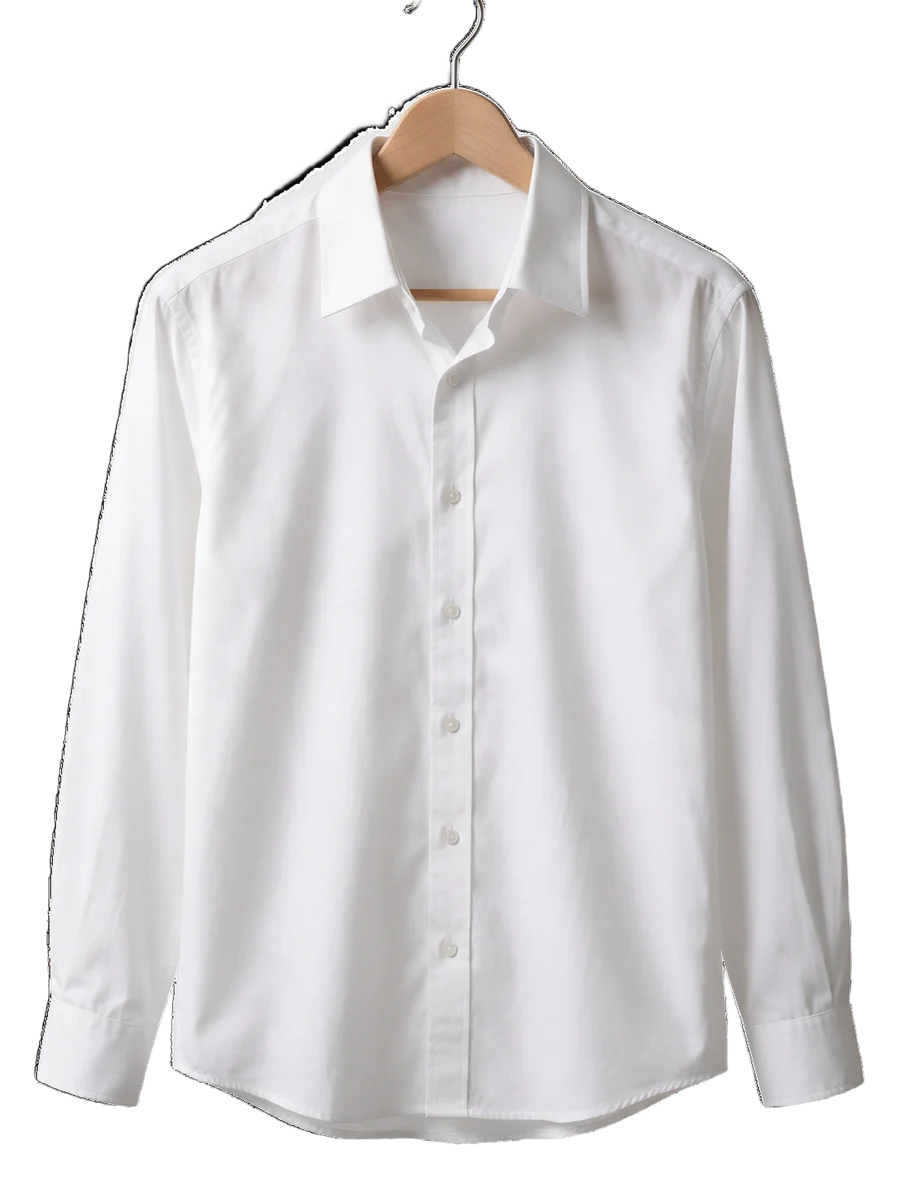
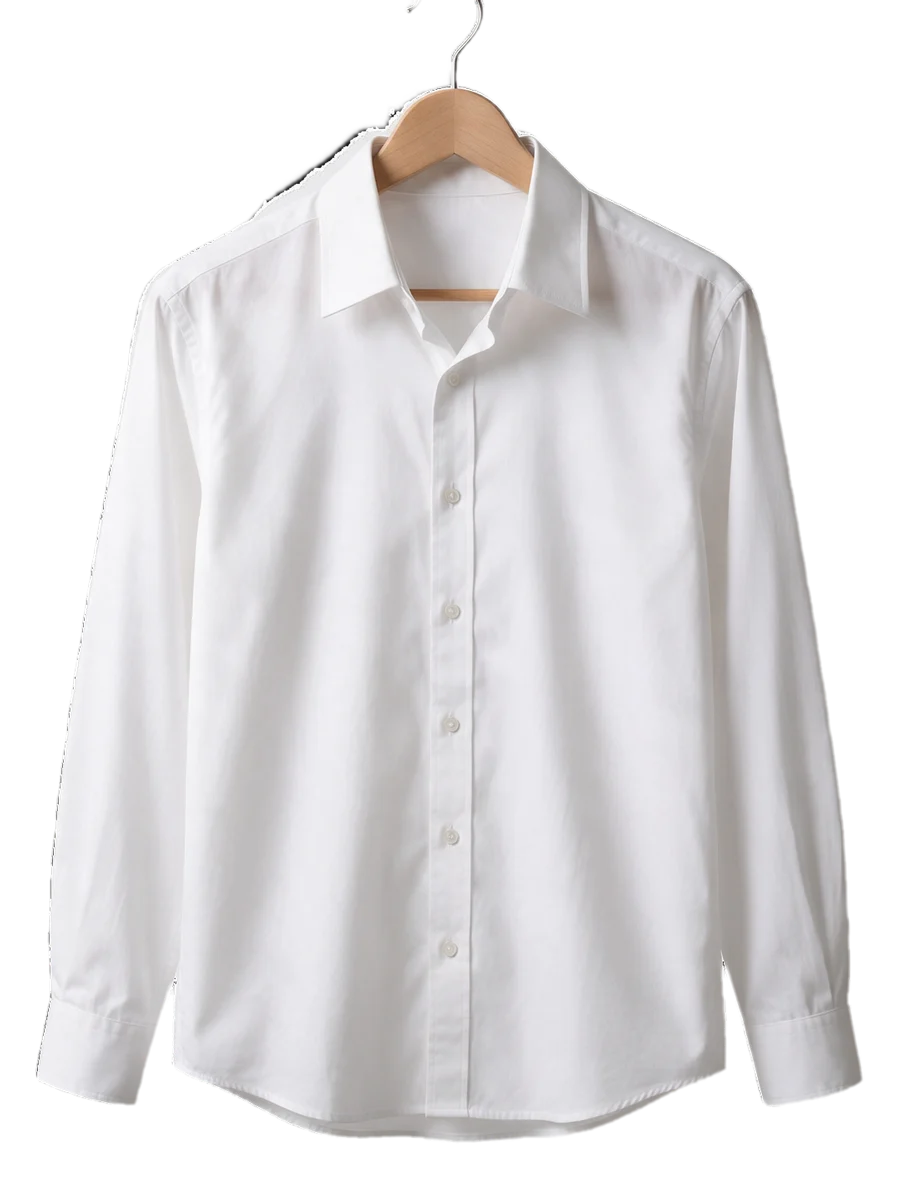
iPhone: safe-area, qisqa ekran va ko'ylak konturi tuzatildi
Haqiqiy WebKit (Safari dvigateli) bilan tekshirildi — Chrome emulyatsiyasi
bu xatolarni ko'rsatmagan edi.

- viewport-fit=cover ishlatilgan edi, lekin env(safe-area-inset-*) yo'q edi:
  nav Dynamic Island ostida, dock esa home indicator ustida qolardi.
  --sa-top/--sa-bot/--navH tokenlari qo'shildi
- Safari paneli bilan vh 852 emas, 659 bo'ladi. Shu qisqa ekranda mahsulot
  bo'limida qadoq nav ostiga kirib, ostida katta bo'shliq qolardi:
  sahna bloki + matn endi flex ustun bo'lib oqadi, slot nav balandligidan
  hisoblanadi
- Ko'ylakda qo'sh kontur: ikkala rasm ustma-ust turardi va mattelari biroz
  farq qilardi. Endi dog'li qatlamga teskari mask qo'llanadi — hech qachon
  ikkalasi bir joyda chizilmaydi
- Alfa chekkasi 2px eroziya + 1px yumshatish bilan tozalandi

Tekshirildi: WebKit iPhone 15 Pro / 13 / SE / 15 Pro Max va Chrome 8 o'lchamda
— overflow yo'q, JS xatosi yo'q, WebGL ishlaydi

diff --git a/src/styles.css b/src/styles.css
@@ -11,6 +11,10 @@
   --f-brand:'Unbounded',var(--f-sans);
   --ease:cubic-bezier(.16,1,.3,1);
   --pad:22px; --maxw:1560px; --docp:0;
+  --sa-top:env(safe-area-inset-top,0px);
+  --sa-bot:env(safe-area-inset-bottom,0px);
+  --navH:calc(3.9rem + var(--sa-top));
+  --sceneH:46svh;
   color-scheme:dark;
 }
 @media (min-width:860px){ :root{ --pad:56px } }
@@ -57,14 +61,14 @@ p{margin:0}
 .lede{color:var(--fg-muted);font-size:clamp(.9rem,3.4vw,1.12rem);line-height:1.62;max-width:34em}
 
 /* ========================================================== progress bar */
-.progress{position:fixed;inset:0 0 auto;height:2px;z-index:80;background:rgba(207,195,242,.12)}
+.progress{position:fixed;inset:var(--sa-top) 0 auto;height:2px;z-index:80;background:rgba(207,195,242,.12)}
 .progress span{display:block;height:100%;width:100%;transform-origin:0 50%;transform:scaleX(var(--docp));background:linear-gradient(90deg,var(--violet),var(--gold))}
 
 /* =================================================================== nav */
 .nav{
-  position:fixed;inset:2px 0 auto;z-index:70;
+  position:fixed;inset:0 0 auto;z-index:70;
   display:flex;align-items:center;justify-content:space-between;gap:1.5rem;
-  padding:1rem var(--pad);transition:background .35s,backdrop-filter .35s,border-color .35s;
+  padding:calc(1rem + var(--sa-top)) max(var(--pad),env(safe-area-inset-right,0px)) 1rem max(var(--pad),env(safe-area-inset-left,0px));transition:background .35s,backdrop-filter .35s,border-color .35s;
   border-bottom:1px solid transparent;
 }
 .nav--solid{background:rgba(21,3,52,.78);backdrop-filter:blur(16px);border-bottom-color:rgba(207,195,242,.14)}
@@ -78,7 +82,7 @@ p{margin:0}
 .nav__cta.btn{display:none;padding:.78rem 1.35rem;font-size:.84rem;white-space:nowrap}
 .nav__menu{padding:.68rem 1.1rem;font-size:.82rem}
 .nav__sheet{
-  position:absolute;top:100%;left:.7rem;right:.7rem;
+  position:absolute;top:100%;left:.7rem;right:.7rem;max-height:calc(100svh - var(--navH) - 2rem);overflow:auto;
   display:grid;gap:.85rem;padding:1.45rem;border-radius:26px;
   background:var(--cream);color:var(--ink);box-shadow:0 34px 70px -22px rgba(10,0,30,.75);
 }
@@ -111,7 +115,7 @@ p{margin:0}
 
 /* sticky bottom CTA, grail-style */
 .dock{
-  position:fixed;left:50%;bottom:1.1rem;z-index:65;transform:translateX(-50%);
+  position:fixed;left:50%;bottom:calc(1.1rem + var(--sa-bot));z-index:65;transform:translateX(-50%);
   padding:.92rem 1.7rem;border-radius:999px;font-weight:600;font-size:.9rem;
   background:var(--gold);color:#22083a;
   box-shadow:0 18px 44px -14px rgba(0,0,0,.7);
@@ -178,12 +182,13 @@ p{margin:0}
 .dots__d--on{width:36px}
 .counter{position:absolute;right:var(--pad);bottom:1.8rem;z-index:3;font-family:var(--f-mono);font-size:.68rem;letter-spacing:.12em;color:var(--muted)}
 @media (max-width:979px){
-  .chapters__sticky{display:block;background:var(--deep)}
-  .chapters__bg{inset:0 0 auto;height:54svh;background-size:240% auto;background-position:55% 30%;background-repeat:no-repeat;transform:none}
-  .chapters__veil{inset:0 0 auto;height:54svh;
-    background:linear-gradient(to bottom,rgba(21,3,52,.12) 0%,rgba(21,3,52,.28) 46%,rgba(21,3,52,.9) 78%,var(--deep) 100%)}
-  .chapters__wrap{position:absolute;left:0;right:0;bottom:4rem}
-  .chapters__slot{left:30%;top:5%;width:44%;height:31%}
+  .chapters__sticky{display:flex;flex-direction:column;background:var(--deep)}
+  .chapters__bg{inset:0 0 auto;height:var(--sceneH);background-size:240% auto;background-position:55% 34%;background-repeat:no-repeat;transform:none}
+  .chapters__veil{inset:0 0 auto;height:var(--sceneH);
+    background:linear-gradient(to bottom,rgba(21,3,52,.10) 0%,rgba(21,3,52,.26) 48%,rgba(21,3,52,.9) 80%,var(--deep) 100%)}
+  .chapters__wrap{position:relative;margin-top:var(--sceneH);flex:1;display:flex;align-items:center;padding-bottom:3.25rem}
+  .chapters__slot{left:26%;top:calc(var(--navH) + 1.6rem);width:48%;
+                  height:calc(var(--sceneH) - var(--navH) - 3.2rem)}
   .panel{gap:.7rem}
   .specs__row{padding:.62rem 0}
   .panel .row{margin-top:1rem}
@@ -321,7 +326,11 @@ p{margin:0}
   filter:drop-shadow(0 30px 50px rgba(10,0,30,.6));
 }
 .shirt__img{position:absolute;inset:0;width:100%;height:100%;object-fit:contain}
-.shirt__img--dirty{filter:saturate(calc(1 - var(--panelp,0) * .25)) brightness(calc(1 - var(--panelp,0) * .06))}
+.shirt__img--dirty{
+  filter:saturate(calc(1 - var(--panelp,0) * .25)) brightness(calc(1 - var(--panelp,0) * .06));
+  -webkit-mask-image:linear-gradient(to bottom,transparent calc(var(--panelp,0) * 142% - 22%),#000 calc(var(--panelp,0) * 142%));
+  mask-image:linear-gradient(to bottom,transparent calc(var(--panelp,0) * 142% - 22%),#000 calc(var(--panelp,0) * 142%));
+}
 .shirt__img--clean{
   -webkit-mask-image:linear-gradient(to bottom,#000 calc(var(--panelp,0) * 142% - 22%),transparent calc(var(--panelp,0) * 142%));
   mask-image:linear-gradient(to bottom,#000 calc(var(--panelp,0) * 142% - 22%),transparent calc(var(--panelp,0) * 142%));
@@ -399,9 +408,8 @@ p{margin:0}
    The pinned product chapter has to fit a scene, an info panel and a CTA row in
    one screen; on short viewports the copy would otherwise ride up into the pack. */
 @media (max-width:979px) and (max-height:700px){
-  .chapters__bg,.chapters__veil{height:42svh}
-  .chapters__slot{top:2%;height:22%}
-  .chapters__wrap{bottom:3.1rem}
+  :root{--sceneH:40svh}
+  .chapters__wrap{padding-bottom:2.7rem}
   .panel__name{font-size:clamp(1.65rem,7.6vw,2.1rem)}
   .panel__desc{font-size:.82rem;line-height:1.48}
   .specs__row{padding:.44rem 0}
